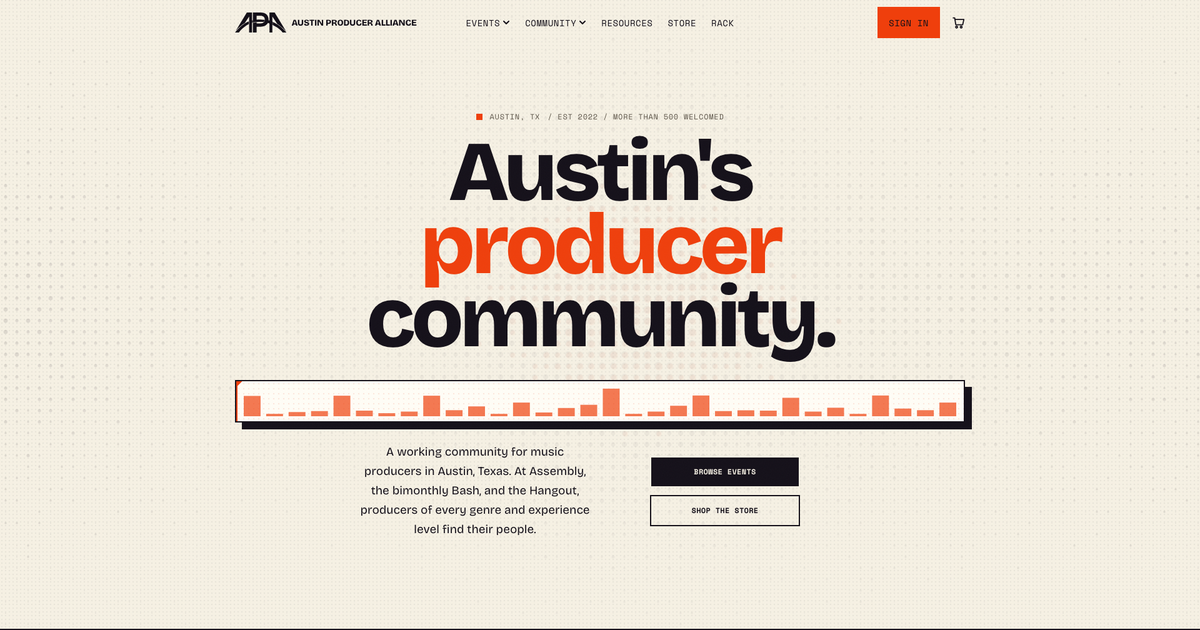
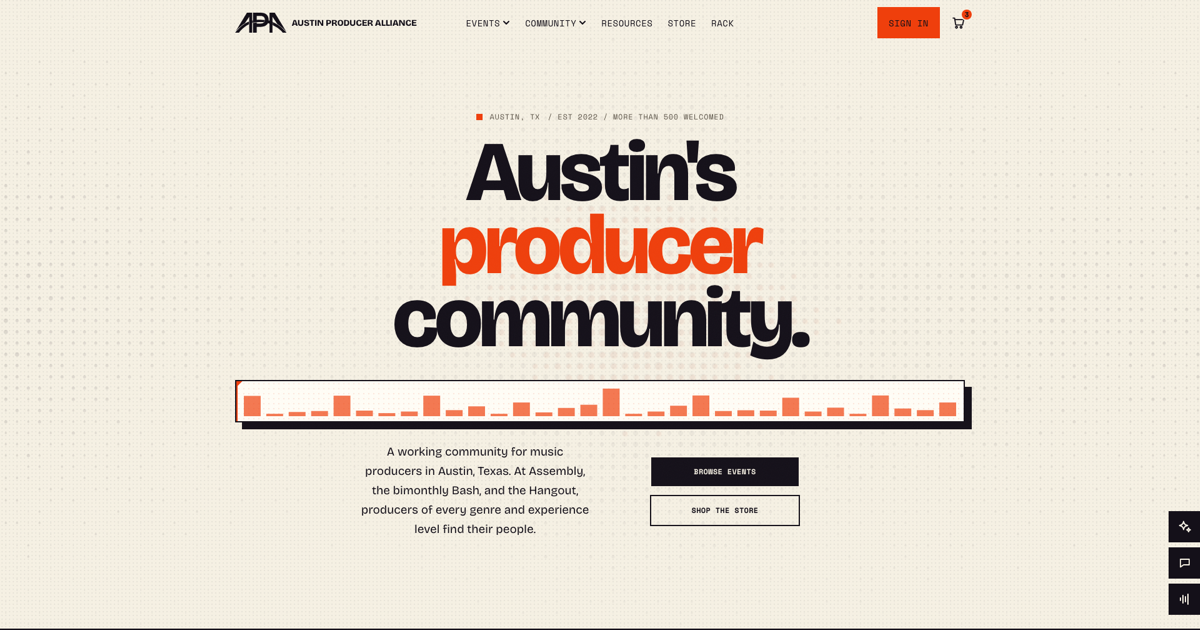
chore: maintain

diff --git a/astro.config.ts b/astro.config.ts
@@ -3,7 +3,7 @@ import react from '@astrojs/react';
 import robots from 'astro-robots-txt';
 import sitemap from '@astrojs/sitemap';
 import tailwind from '@tailwindcss/vite';
-import { defineConfig } from 'astro/config';
+import { defineConfig, fontProviders } from 'astro/config';
 
 const PRIVATE_ROUTES = new Set(['/404', '/500', '/admin', '/here', '/onboarding', '/settings', '/signin', '/store/cart', '/store/checkout', '/store/orders']);
 
@@ -15,6 +15,27 @@ export default defineConfig({
     devToolbar: {
         enabled: false,
     },
+    fonts: [
+        {
+            cssVariable: '--font-bricolage-grotesque',
+            display: 'block',
+            name: 'Bricolage Grotesque',
+            provider: fontProviders.fontsource(),
+            styles: ['normal'],
+            subsets: ['latin'],
+            weights: ['200 800'],
+        },
+        {
+            cssVariable: '--font-space-mono',
+            display: 'block',
+            fallbacks: ['Courier New', 'monospace'],
+            name: 'Space Mono',
+            provider: fontProviders.fontsource(),
+            styles: ['normal'],
+            subsets: ['latin'],
+            weights: [400, 700],
+        },
+    ],
     integrations: [
         react(),
         robots(),

diff --git a/src/global.css b/src/global.css
@@ -28,14 +28,8 @@
     --color-surface-violet: #2a1e5c;
     --default-transition-duration: 0.2s;
     --default-transition-timing-function: ease;
-    --font-mono:
-        'Space Mono',
-        'Courier New',
-        monospace;
-    --font-sans:
-        'Bricolage Grotesque Variable',
-        system-ui,
-        sans-serif;
+    --font-mono: var(--font-space-mono);
+    --font-sans: var(--font-bricolage-grotesque);
     --text-2xl: clamp(26px, calc(23.333px + 0.8333vw), 34px);
     --text-2xs: 11px;
     --text-3xl: clamp(31px, calc(26.667px + 1.3542vw), 44px);

diff --git a/src/content.config.ts b/src/content.config.ts
@@ -106,7 +106,7 @@ const products = defineCollection({
             hex: z.string(),
             name: z.string(),
         })).min(1).max(8),
-    }).refine(data => data.variations.some(variation => variation.name === data.base), { message: 'base must name one of the variations' }),
+    }).refine(data => data.variations.some(variation => variation.name === data.base), { message: 'Base must name one of the variations.' }),
 });
 
 export const collections = { bash, docs, downloads, events, producers, products };

diff --git a/src/lib/audio/dropzone.ts b/src/lib/audio/dropzone.ts
@@ -213,7 +213,7 @@ function startDropzone(elements: DropzoneElements, selectors: DropzoneSelectors,
             if (!row) return;
 
             if (entry.status === 'rejected') {
-                announce(messages.rejected(entry.file.name, entry.error ?? 'not accepted'));
+                announce(messages.rejected(entry.file.name, entry.error ?? 'That file was not accepted.'));
 
                 return;
             }

diff --git a/src/middleware.ts b/src/middleware.ts
@@ -12,7 +12,7 @@ export const onRequest = defineMiddleware(async (context, next) => {
 
         return response;
     } catch {
-        if (isApi) return Response.json({ error: 'Internal server error' }, { status: 500 });
+        if (isApi) return Response.json({ error: 'Internal server error.' }, { status: 500 });
 
         return context.rewrite('/500');
     }

diff --git a/src/pages/api/[...path].ts b/src/pages/api/[...path].ts
@@ -2,4 +2,4 @@ import type { APIRoute } from 'astro';
 
 export const prerender = false;
 
-export const ALL: APIRoute = () => Response.json({ error: 'Not found' }, { status: 404 });
+export const ALL: APIRoute = () => Response.json({ error: 'Not found.' }, { status: 404 });
